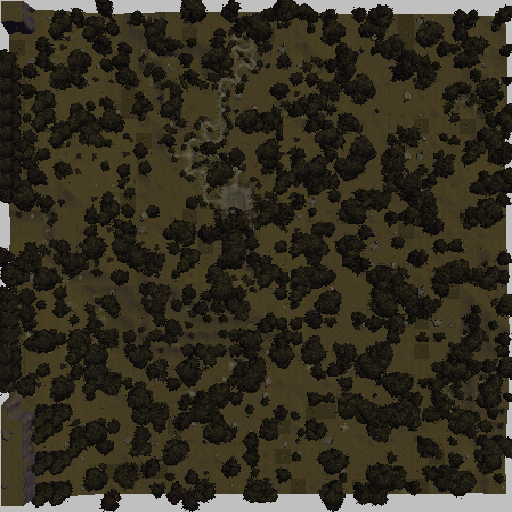
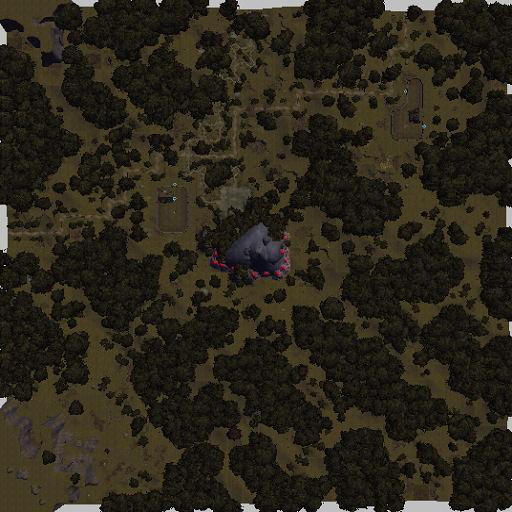
v220911

diff --git a/common.js b/common.js
@@ -25,7 +25,7 @@ var map = {
         '0map',          '0map',          '0map',          't_dasaajk',     '0map',            't_soldieroad_2',  't_jongrathroad11','t_sevenstar',     't_sevenstar_hse', 't_brinniqdell_s', 't_brinniqwood',   't_ithmon_pipe_s', 't_ithmon_farm_w', 't_ithmon_loranse','t_ithmon_farm_e', 't_loransewood_s', '0map',            't_clov_fld_nw',   't_clov_fld_itr_n','0map',           '0map',           '0map',                '0IthalRoadES',    '0IthalRoadWE',    '0IthalRoadWN',    '0map',         '0map',             '0map',         '0map',         '0map',       
         '0map',          't_vineshade',   '0map',          '0map',          '0map',            't_krennasar',     't_jongrathroad01','t_jongrathroad02','t_jongrath',      't_jongrathroad03','0map',            't_loranse_swamp', '0map',            '0map',            '0map',            '0map',            't_ruba',          '0IthalRoadWE',    't_clov_fld_itr_s','0IthalRoadWES',  '0IthalRoadWE',   '0IthalRoadWE',        '0IthalRoadNWS',   '0map',            '0map',            '0map',         '0map',             '0map',         '0map',         '0map',       
         '0map',          '0map',          '0map',          't_redmills',    't_elem_solroad01','t_elem_solroa002','0map',            '0map',            '0map',            '0map',            '0map',            '0map',            '0map',            '0map',            '0map',            '0map',            '0IthalRoadNS',    '0map',            '0map',            't_abbor',        '0map',           '0map',                '0IthalRoadNES',   '0IthalRoadWE',    '0IthalRoadWE',    '0IthalRoadWE', '0IthalRoadWS',     '0map',         '0map',         '0map',       
-        '0map',          '0map',          '0map',          't_refields_n',  't_refields_ne',   '0map',            '0map',            '0map',            '0map',            '0map',            '0map',            '0map',            '0map',            '0map',            't_pelmarin',      '0IthalRoadWE',    '0IthalRoadWN',    '0map',            '0map',            '0map',           '0map',           '0map',                't_mistletoe',     '0map',            '0map',            '0map',         '0IthalRoadNES',    '0IthalRoadWE', '0IthalRoadWES','t_barakmordin',       
+        '0map',          '0map',          '0map',          't_refields_n',  't_refields_ne',   't_riverith1',     't_riverith2',     '0map',            '0map',            '0map',            '0map',            '0map',            '0map',            '0map',            't_pelmarin',      '0IthalRoadWE',    '0IthalRoadWN',    '0map',            '0map',            '0map',           '0map',           '0map',                't_mistletoe',     '0map',            '0map',            '0map',         '0IthalRoadNES',    '0IthalRoadWE', '0IthalRoadWES','t_barakmordin',       
         '0map',          '0map',          't_myratma_w',   't_myratma_e',   't_refields_e',    '0IthalRoadWE',    '0IthalRoadWE',    't_maratimmir',    '0IthalRoadWE',    '0IthalRoadWE',    '0IthalRoadWE',    '0IthalRoadWES',   '0IthalRoadWE',    '0IthalRoadWE',    '0IthalRoadWN',    '0map',            '0map',            '0map',            '0map',            '0map',           '0map',           '0map',                '0map',            '0map',            '0map',            '0map',         '0IthalRoadNS',     '0map',         '0IthalRoadNS', '0map',       
         '0map',          '0map',          '0map',          '0map',          '0map',            '0map',            '0map',            '0map',            '0map',            '0map',            '0map',            't_fort_teqlar',   't_shoonach_ilt',  't_shoonach_run',  '0map',            '0map',            '0map',            '0map',            '0map',            '0map',           '0map',           '0map',                '0map',            '0map',            '0map',            't_magis_tor',  '0IthalRoadWN',     '0map',         '0IthalRoadNS', '0map',       
         '0map',          '0map',          '0map',          '0map',          '0map',            '0map',            '0map',            '0map',            '0map',            '0map',            't_shoonach_gaw',  '0map',            '0map',            '0map',            't_shoonach_deb',  '0map',            '0map',            '0map',            '0map',            '0map',           '0map',           '0map',                '0map',            '0map',            '0map',            '0map',         '0map',             '0map',         't_adarthir',   '0map',
